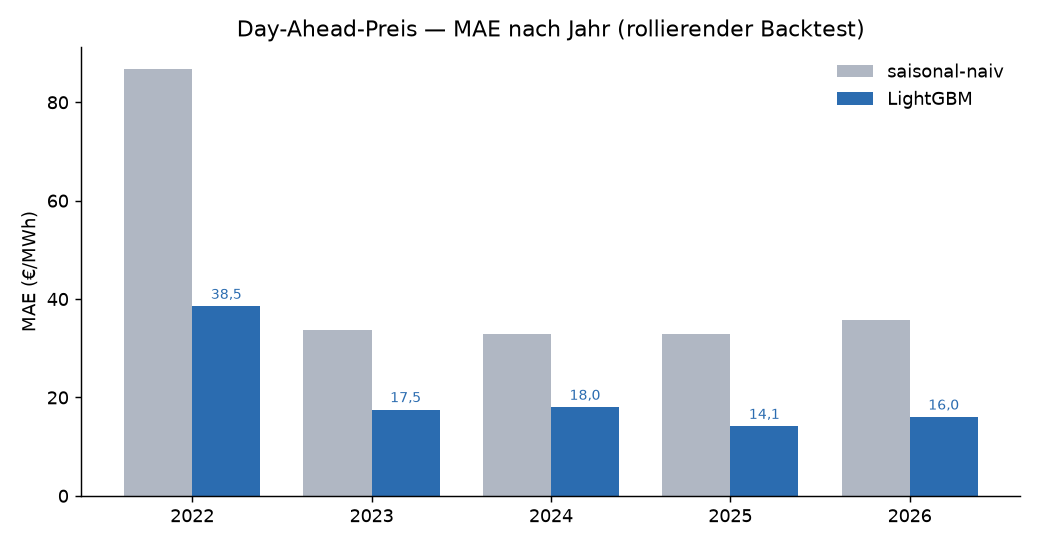
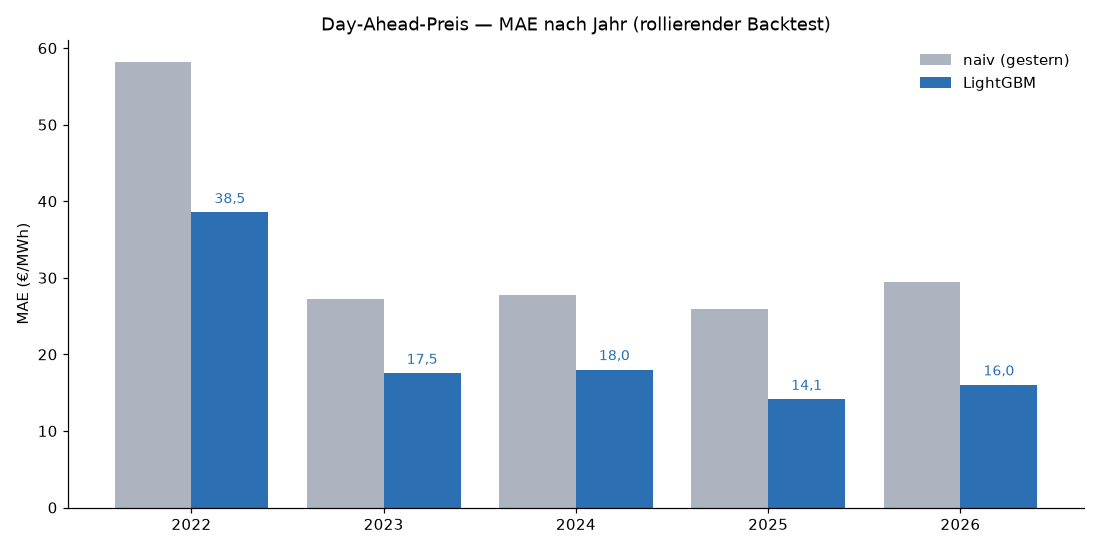
Repoint report, app and notebook to the daily-persistence baseline

diff --git a/scripts/make_mae_plot.py b/scripts/make_mae_plot.py
@@ -1,0 +1,67 @@
+"""Generate the yearly-MAE report plot from the cached backtest regime table.
+
+Reproducible companion to `python -m src.evaluate`: reads the cached regime table
+(data/processed/price_backtest_regime.csv) and writes reports/price_mae_by_year.png —
+LightGBM vs. the canonical naive baseline (daily persistence, 'yesterday') per calendar
+year, the honest regime story a rolling-origin backtest tells.
+
+Run: python scripts/make_mae_plot.py
+"""
+from __future__ import annotations
+
+import sys
+from pathlib import Path
+
+import matplotlib.pyplot as plt
+import numpy as np
+import pandas as pd
+
+ROOT = Path(__file__).resolve().parents[1]
+sys.path.insert(0, str(ROOT))
+from src import config  # noqa: E402
+
+# daily persistence ('yesterday') is the strongest naive baseline in this market, so it
+# is the reference the headline reduction is reported against (see README / evaluate.py).
+BASELINE_COL = "MAE_naive"
+BASELINE_LABEL = "naiv (gestern)"
+GREY = "#aeb4bf"
+BLUE = "#2c6fb3"
+
+
+def main() -> None:
+    regime = pd.read_csv(config.PROCESSED / "price_backtest_regime.csv")
+    years = regime["year"].astype(int).astype(str).to_numpy()
+    x = np.arange(len(years))
+    width = 0.4
+
+    fig, ax = plt.subplots(figsize=(10, 5))
+    ax.bar(x - width / 2, regime[BASELINE_COL], width, label=BASELINE_LABEL, color=GREY)
+    bars = ax.bar(x + width / 2, regime["MAE_lightgbm"], width, label="LightGBM", color=BLUE)
+
+    # value labels on the LightGBM bars, German decimal comma
+    for rect, val in zip(bars, regime["MAE_lightgbm"]):
+        ax.annotate(
+            f"{val:.1f}".replace(".", ","),
+            (rect.get_x() + rect.get_width() / 2, rect.get_height()),
+            textcoords="offset points",
+            xytext=(0, 4),
+            ha="center",
+            va="bottom",
+            color=BLUE,
+            fontsize=9,
+        )
+
+    ax.set_title("Day-Ahead-Preis — MAE nach Jahr (rollierender Backtest)")
+    ax.set_ylabel("MAE (€/MWh)")
+    ax.set_xticks(x, years)
+    ax.legend(frameon=False)
+    ax.spines[["top", "right"]].set_visible(False)
+    fig.tight_layout()
+
+    out = ROOT / "reports" / "price_mae_by_year.png"
+    fig.savefig(out, dpi=110)
+    print(f"wrote {out}")
+
+
+if __name__ == "__main__":
+    main()

diff --git a/app/streamlit_app.py b/app/streamlit_app.py
@@ -46,7 +46,7 @@ def load_predictions() -> pd.DataFrame | None:
 st.title("⚡ Day-Ahead-Strompreisprognose — DE/LU")
 st.caption(
     "SMARD Day-Ahead-Preis + Prognose-Fundamentaldaten · eine Prognose je Tag zum "
-    "Gate Closure (12:00 am Vortag) für alle 24 Stunden · LightGBM vs. saisonal-naive Baseline"
+    "Gate Closure (12:00 am Vortag) für alle 24 Stunden · LightGBM vs. naive Baseline (Tagespersistenz)"
 )
 
 preds = load_predictions()
@@ -64,8 +64,8 @@ if preds is None or metrics is None:
 m = metrics.set_index("model")
 c1, c2, c3 = st.columns(3)
 c1.metric("LightGBM MAE", eur(m.loc["lightgbm", "MAE"]))
-c2.metric("Saisonal-naiv MAE", eur(m.loc["seasonal_naive", "MAE"]))
-c3.metric("Verbesserung ggü. Baseline", pct(m.loc["lightgbm", "MAE_vs_seasonal_%"]), "weniger Fehler")
+c2.metric("Naiv (gestern) MAE", eur(m.loc["naive", "MAE"]))
+c3.metric("Verbesserung ggü. Baseline", pct(m.loc["lightgbm", "MAE_vs_naive_%"]), "weniger Fehler")
 
 # --- sidebar: time window --------------------------------------------------
 st.sidebar.header("Steuerung")
@@ -77,8 +77,8 @@ start_day, end_day = st.sidebar.slider(
 
 # --- forecast vs actual ----------------------------------------------------
 st.subheader("Prognose vs. Ist")
-window = preds.loc[str(start_day):str(end_day), ["y_true", "lightgbm", "seasonal_naive"]].rename(
-    columns={"y_true": "Ist-Preis", "lightgbm": "LightGBM", "seasonal_naive": "saisonal-naiv"}
+window = preds.loc[str(start_day):str(end_day), ["y_true", "lightgbm", "naive"]].rename(
+    columns={"y_true": "Ist-Preis", "lightgbm": "LightGBM", "naive": "naiv (gestern)"}
 )
 st.line_chart(window, height=380, y_label="Preis (€/MWh)")
 
@@ -111,11 +111,11 @@ col_a, col_b = st.columns(2)
 if regime is not None:
     col_a.subheader("MAE nach Jahr / Regime")
     reg = regime.rename(
-        columns={"year": "Jahr", "MAE_lightgbm": "LightGBM", "MAE_seasonal_naive": "saisonal-naiv"}
+        columns={"year": "Jahr", "MAE_lightgbm": "LightGBM", "MAE_naive": "naiv (gestern)"}
     )
     reg["Jahr"] = reg["Jahr"].astype(int).astype(str)  # categorical -> clean horizontal labels
     reg = reg.set_index("Jahr")
-    col_a.bar_chart(reg[["LightGBM", "saisonal-naiv"]], height=300, y_label="MAE (€/MWh)", stack=False)
+    col_a.bar_chart(reg[["LightGBM", "naiv (gestern)"]], height=300, y_label="MAE (€/MWh)", stack=False)
     col_a.caption("2022 = Gaskrise (schwerstes Jahr) → Normalisierung ab 2023.")
 
 # negative-price lens recomputed from preds (no model needed)

diff --git a/README.md b/README.md
@@ -19,10 +19,11 @@ verkleinert das Risiko im kurzfristigen Handel. Besonders wertvoll sind die Extr
 **negative Preise** (Überschuss aus Wind/PV) und **Preisspitzen** in knappen Stunden — die
 Momente, in denen sich eine gute Prognose in Euro auszahlt.
 
-**Ergebnis vorweg:** Über 5,5 Jahre rollierenden Backtest senkt das Modell den mittleren
-absoluten Fehler von **45,2 €/MWh** (saisonal-naiv) auf **21,4 €/MWh** — eine Reduktion um
-**52,8 %**, und es schlägt die Baseline in **jedem** Jahr, auch im Gaskrisenjahr 2022.
-Negative Preisstunden erkennt es mit **79 % Precision bei 61 % Recall**.
+**Ergebnis vorweg:** Über den rollierenden Backtest (2022–2026) senkt das Modell den
+mittleren absoluten Fehler der stärksten naiven Baseline (Tagespersistenz „gestern") von
+**34,1 €/MWh** auf **21,4 €/MWh** — eine Reduktion um **37,4 %**, und es schlägt jede naive
+Baseline in **jedem** Jahr, auch im Gaskrisenjahr 2022. Negative Preisstunden erkennt es mit
+**79 % Precision bei 61 % Recall**.
 
 ## Prognose-Rahmen: Gate Closure & Leckagefreiheit
 
@@ -82,9 +83,12 @@ Zusammenführen liegen in [`src/data.py`](src/data.py).
    über die Zeit, Verteilung und Preisdauerlinie, das **Merit-Order-Streudiagramm** (Preis
    vs. Residuallast, eingefärbt nach EE-Anteil), Negativpreise nach Jahr/Stunde, die
    wandernde Duck-Curve und Autokorrelation. Jeder Schritt ist begründet dokumentiert.
-2. **Baselines** — Tagespersistenz (gestern, gleiche Stunde) und **saisonal-naiv** (letzte
-   Woche, gleiche Stunde). Beide sind reine kausale Shifts und für den Day-Ahead-Rahmen
-   gültig.
+2. **Baselines** — drei rein kausale Shifts, alle für den Day-Ahead-Rahmen gültig:
+   Tagespersistenz (gestern, gleiche Stunde), saisonal-naiv (letzte Woche, gleiche Stunde)
+   und die wochentagsabhängige **Lago-Baseline** (Lago et al. 2021; Di–Fr „gestern",
+   Mo/Sa/So „letzte Woche"), der Literaturstandard der Strompreisprognose. Berichtet wird
+   gegen die **empirisch stärkste** — hier die Tagespersistenz, die die Lago-Kombination in
+   diesem niveau-driftenden Markt sogar schlägt (Details unter *Ergebnisse*).
 3. **Gate-Closure-Features** — `make_supervised_dayahead` baut die (X, y)-Matrix indiziert
    nach Lieferstunde, mit der oben beschriebenen Semantik (Fundamental-Prognosen zu τ,
    Preishistorie um ganze Tage verschoben, Kalender von τ).
@@ -92,26 +96,32 @@ Zusammenführen liegen in [`src/data.py`](src/data.py).
    **rollierender Backtest (rolling origin)**, niemals ein zufälliger Split. LightGBM wird
    monatlich auf einem rollierenden Zwei-Jahres-Fenster neu trainiert und auf dem Folgemonat
    bewertet; die Baselines werden auf **exakt denselben** Zeitstempeln gemessen. Metriken:
-   MAE und RMSE in €/MWh plus MAE relativ zur Baseline — **kein MAPE**, weil Preise die Null
-   kreuzen und negativ werden.
+   MAE und RMSE in €/MWh plus MAE-Reduktion relativ zur stärksten naiven Baseline — **kein
+   MAPE**, weil Preise die Null kreuzen und negativ werden.
 
 ## Ergebnisse
 
 Rollierender Backtest über 2022–2026 (monatliches Neutraining, Zwei-Jahres-Fenster; die
 Daten reichen bis 2021 zurück, das erste Trainingsfenster verbraucht das erste Jahr).
-LightGBM schlägt die starke saisonal-naive Baseline klar und über alle Regime hinweg.
+Referenz ist die **stärkste** naive Baseline — die Tagespersistenz („gestern"). Sie schlägt
+nicht nur die saisonal-naive, sondern auch die wochentagsabhängige **Lago-Baseline**: In
+einem so **niveau-driftenden** Markt (Gaskrise) kostet der 7-Tage-Rückgriff an Mo/Sa/So mehr,
+als sein Wochentags-Vorteil einbringt. LightGBM schlägt alle drei klar und über alle Regime.
 
-| Modell | MAE (€/MWh) | RMSE (€/MWh) | MAE-Reduktion |
+| Modell | MAE (€/MWh) | RMSE (€/MWh) | ggü. „gestern" |
 | --- | ---: | ---: | ---: |
-| **LightGBM** | **21,4** | **35,0** | **−52,8 %** |
-| naiv (gestern) | 34,1 | 54,0 | −24,5 % |
-| saisonal-naiv | 45,2 | 70,7 | — |
+| **LightGBM** | **21,4** | **35,0** | **−37,4 %** |
+| naiv („gestern") — Referenz | 34,1 | 54,0 | — |
+| Lago (wochentagsabhängig) | 36,5 | 58,1 | +6,9 % |
+| saisonal-naiv | 45,2 | 70,7 | +32,5 % |
+
+(Negativ = weniger Fehler als die Referenz.)
 
 Die ehrliche Regime-Story, die nur ein rollierender Backtest abbildet: 2022 (Gaskrise) ist
 mit Abstand das schwerste Jahr, danach normalisieren sich Niveau und Fehler — aber das
 Modell schlägt die Baseline in **jedem** Jahr.
 
-![MAE nach Jahr — LightGBM vs. saisonal-naiv](reports/price_mae_by_year.png)
+![MAE nach Jahr — LightGBM vs. naiv (gestern)](reports/price_mae_by_year.png)
 
 - **Merit-Order bestätigt:** In der Feature-Importance dominiert die
   **Residuallast-Prognose** (~56 % Gain), gefolgt von der Preishistorie (~27 %, das